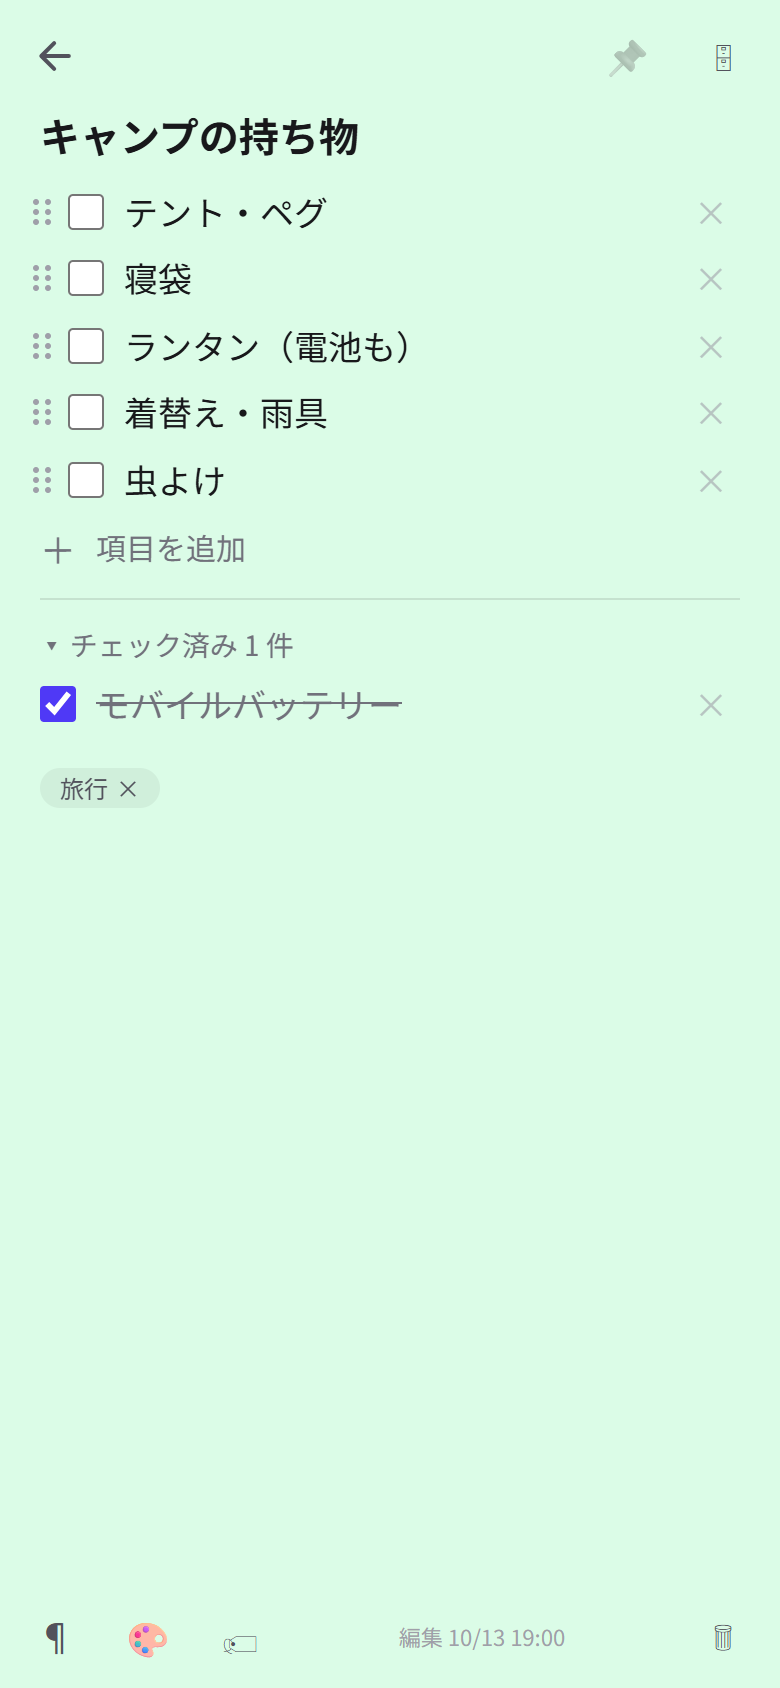
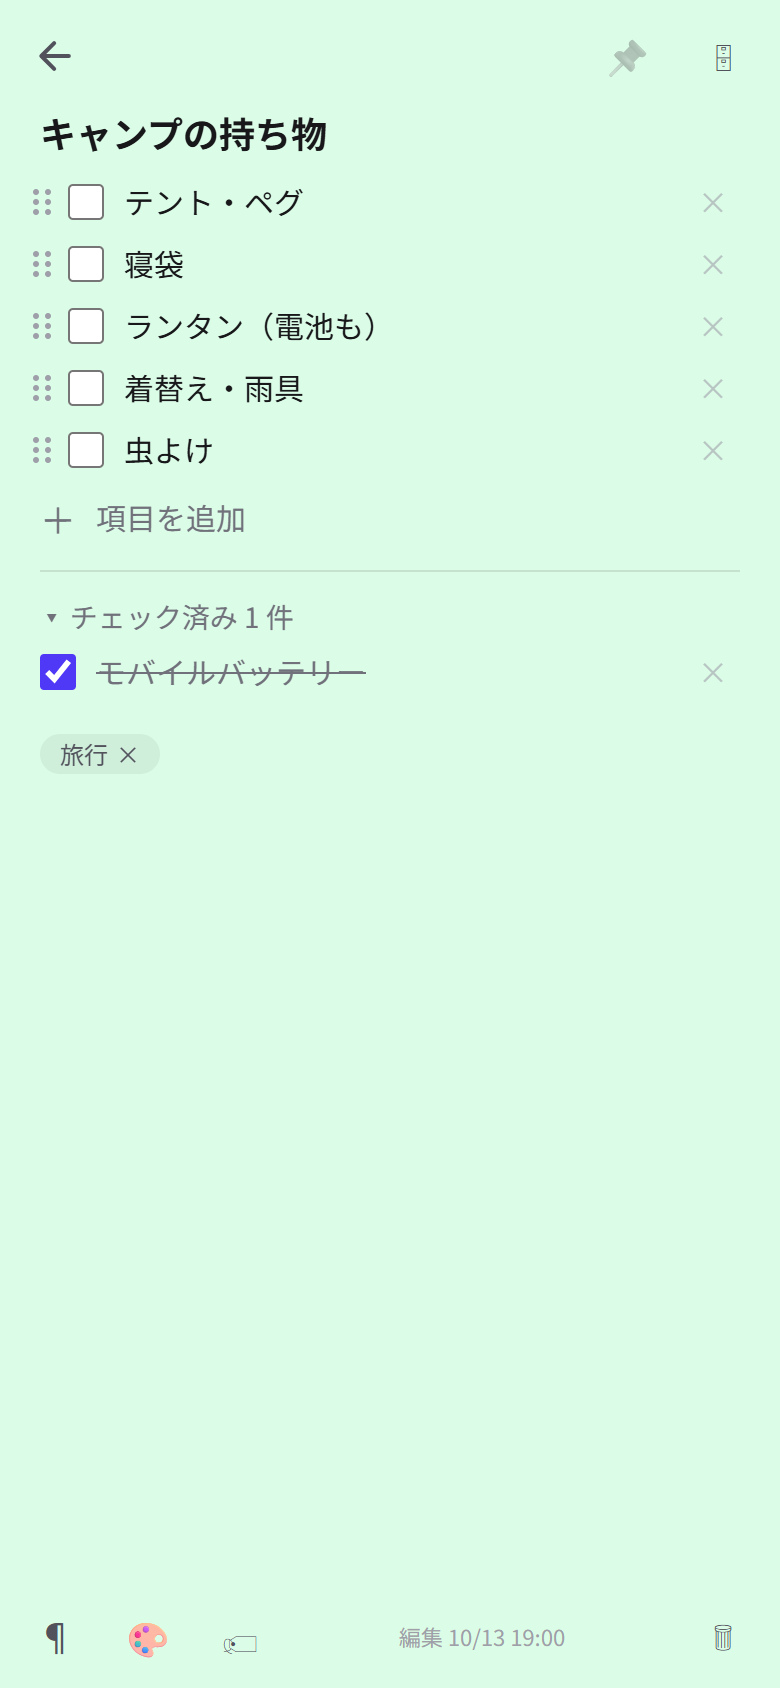
ノート: 文字の大きさを設定で選べるように・ダークの色つきノートでタイトルが透けて読めないのを直す
- 設定の「表示」に「ノートの文字」小（14px）／中（15px・既定）／大（17px）。端末ごと（web/noteFont.ts）
- チェックとつまみは文字の大きさに合わせて1行目の真ん中に
- ダークの色は半透明なので、開いたノートは不透明な地の上に色を重ねる（下の一覧が透けてタイトルが読めなかった）

diff --git a/src/web/pages/NotesPage.tsx b/src/web/pages/NotesPage.tsx
@@ -9,6 +9,7 @@ import type { Note, NoteItem } from '../../shared/types.ts';
 import { api, useNoteLabels, useNotes } from '../api.ts';
 import { PageHeader } from '../components/Layout.tsx';
 import { useKeyboardViewport, useMediaQuery } from '../media.ts';
+import { noteFontPx, useNoteFont } from '../noteFont.ts';
 import { useOffline } from '../offline.ts';
 import { enqueue, useOutbox, withPendingChecks } from '../outbox.ts';
 import { useLocalState } from '../storage.ts';
@@ -259,10 +260,11 @@ function NoteCard({ note: n, onOpen }: { note: Note; onOpen: () => void }) {
   );
 }
 
-/** チェックリストの項目の見た目。項目は折り返すので、チェックと × は1行目の高さに合わせる */
-const ITEM = 'min-w-0 flex-1 bg-transparent py-1 text-[17px] leading-snug outline-none';
-const CHECK = 'mt-[7px] size-[18px] shrink-0 accent-indigo-600';
-const REMOVE = 'shrink-0 px-1.5 py-1 text-[17px] leading-snug text-zinc-400 opacity-60 group-hover:opacity-100';
+/** チェックリストの項目の見た目。項目は折り返すので、チェックと × は1行目の高さに合わせる。
+ * 文字の大きさは開いたノートの CSS 変数 --note-fs（設定の 小・中・大＝noteFont.ts） */
+const ITEM = 'min-w-0 flex-1 bg-transparent py-1 text-[length:var(--note-fs)] leading-snug outline-none';
+const CHECK = 'mt-[calc(var(--note-fs)*0.6875-5px)] size-[18px] shrink-0 accent-indigo-600';
+const REMOVE = 'shrink-0 px-1.5 py-1 text-[length:var(--note-fs)] leading-snug text-zinc-400 opacity-60 group-hover:opacity-100';
 
 /** 並べ替えで、指が上下の端からこの距離に入ったらノートを送る */
 const EDGE = 48;
@@ -337,6 +339,8 @@ function NoteEditor({
   const scrollRef = useRef<HTMLDivElement>(null);
   const bodyRef = useRef<HTMLTextAreaElement>(null);
   const keyboard = useKeyboardViewport();
+  const [font] = useNoteFont();
+  const fs = noteFontPx(font);
   // つながっていないときは読むだけ（端末に残しておいた中身を見せている・design 7-9）。チェックだけは溜めておける
   const ro = useOffline() !== null;
   const checkOffline = (i: number, done: boolean) => {
@@ -600,13 +604,18 @@ function NoteEditor({
       style={keyboard ? { top: keyboard.top, height: keyboard.height, bottom: 'auto' } : undefined}
       onClick={close}
     >
-      {/* スマホは1枚の紙（枠を付けず、色はノートの色）・広い画面は真ん中の大きめのカード */}
+      {/* スマホは1枚の紙（枠を付けず、色はノートの色）・広い画面は真ん中の大きめのカード。
+          ダークの色は半透明なので、不透明な地の上に重ねる（下の一覧が透けてタイトルが読めなくなる） */}
+      <div
+        className="flex h-full w-full flex-col overflow-hidden bg-white md:h-auto md:max-h-[86vh] md:max-w-2xl md:rounded-2xl md:shadow-2xl dark:bg-zinc-900"
+        style={{ '--note-fs': `${fs.body}px`, '--note-title': `${fs.title}px` } as React.CSSProperties}
+        onClick={(e) => e.stopPropagation()}
+      >
       <div
         className={cx(
-          'flex h-full w-full flex-col overflow-hidden md:h-auto md:max-h-[86vh] md:max-w-2xl md:rounded-2xl md:border md:shadow-2xl',
-          d.color ? BG[d.color] : 'bg-white md:border-zinc-200 dark:bg-zinc-900 dark:md:border-zinc-800',
+          'flex min-h-0 flex-1 flex-col md:rounded-2xl md:border',
+          d.color ? BG[d.color] : 'md:border-zinc-200 dark:md:border-zinc-800',
         )}
-        onClick={(e) => e.stopPropagation()}
       >
         {/* 上: 戻る（スマホ）・固定・アーカイブ */}
         <div className="flex shrink-0 items-center gap-1 px-1.5 pt-1.5 md:px-3 md:pt-3">
@@ -663,7 +672,7 @@ function NoteEditor({
               else insertAfter(d.items.length - 1);
             }}
             placeholder="タイトル"
-            className="w-full bg-transparent py-1 text-xl leading-snug font-semibold outline-none placeholder:text-zinc-400/80"
+            className="w-full bg-transparent py-1 text-[length:var(--note-title)] leading-snug font-semibold outline-none placeholder:text-zinc-400/80"
           />
 
           {d.kind === 'text' ? (
@@ -675,7 +684,7 @@ function NoteEditor({
               onChange={(e) => set({ body: e.target.value })}
               placeholder="メモ"
               rows={3}
-              className="mt-1 w-full bg-transparent text-[17px] leading-relaxed outline-none placeholder:text-zinc-400/80"
+              className="mt-1 w-full bg-transparent text-[length:var(--note-fs)] leading-relaxed outline-none placeholder:text-zinc-400/80"
             />
           ) : (
             <div className="mt-1 space-y-0.5">
@@ -695,7 +704,7 @@ function NoteEditor({
                       onPointerMove={moveDrag}
                       onPointerUp={endDrag}
                       onPointerCancel={endDrag}
-                      className="-mr-1 shrink-0 cursor-grab touch-none px-0.5 pt-[9px] pb-1 text-zinc-400 active:cursor-grabbing"
+                      className="-mr-1 shrink-0 cursor-grab touch-none px-0.5 pt-[calc(var(--note-fs)*0.6875-3px)] pb-1 text-zinc-400 active:cursor-grabbing"
                       title="押したまま上下で並べ替え"
                       aria-hidden="true"
                     >
@@ -850,6 +859,7 @@ function NoteEditor({
             閉じる
           </button>
         </div>
+      </div>
       </div>
     </div>
   );

diff --git a/src/web/pages/SettingsPage.tsx b/src/web/pages/SettingsPage.tsx
@@ -7,6 +7,7 @@ import { anchorLabel, flatten } from '../../shared/templates.ts';
 import type { Category, Template } from '../../shared/types.ts';
 import { api, useCategories, useCategoryWrite, useSettings, useTemplates, useTemplateWrite, useWrite, type AppSettings } from '../api.ts';
 import { PageHeader } from '../components/Layout.tsx';
+import { NOTE_FONTS, noteFontPx, useNoteFont } from '../noteFont.ts';
 import { setThemePref, useThemePref, type ThemePref } from '../theme.ts';
 import { toast } from '../toast.ts';
 import { CARD, cx } from '../util.ts';
@@ -77,6 +78,7 @@ export function SettingsPage() {
 
       <h2 className={H2}>表示</h2>
       <ThemeSetting />
+      <NoteFontSetting />
     </div>
   );
 }
@@ -366,6 +368,38 @@ function ThemeSetting() {
         ))}
       </div>
       <p className="mt-2.5 text-xs text-zinc-400">この端末だけの設定（スマホと PC で別々に選べる）。</p>
+    </div>
+  );
+}
+
+/** ノートを開いたときの文字の大きさ（design 7-13・端末ごと） */
+function NoteFontSetting() {
+  const [font, setFont] = useNoteFont();
+  const px = noteFontPx(font);
+  return (
+    <div className={cx(CARD, 'mt-3 p-4')}>
+      <div className="flex flex-wrap items-center gap-2">
+        <span className="mr-1 text-sm">ノートの文字</span>
+        {NOTE_FONTS.map(([v, label]) => (
+          <button
+            key={v}
+            type="button"
+            onClick={() => setFont(v)}
+            className={cx(
+              'rounded-md border px-3 py-1.5 text-sm',
+              font === v
+                ? 'border-indigo-500 bg-indigo-50 text-indigo-700 dark:bg-indigo-950 dark:text-indigo-300'
+                : 'border-zinc-300 text-zinc-600 dark:border-zinc-700 dark:text-zinc-300',
+            )}
+          >
+            {label}
+          </button>
+        ))}
+      </div>
+      <p className="mt-3 leading-relaxed" style={{ fontSize: px.body }}>
+        思いついたことを、そのまま書いておく。
+      </p>
+      <p className="mt-1.5 text-xs text-zinc-400">開いたノートの本文と項目の大きさ（タイトルは少し大きく）。この端末だけの設定。</p>
     </div>
   );
 }

diff --git a/src/web/noteFont.ts b/src/web/noteFont.ts
@@ -1,0 +1,18 @@
+// ノートを開いたときの文字の大きさ（design 7-13）。端末ごとに設定画面で選ぶ（スマホと PC で別々）。
+
+import { useLocalState } from './storage.ts';
+
+export type NoteFont = 's' | 'm' | 'l';
+
+/** 本文（とチェックリストの項目）とタイトルの大きさ（px） */
+export const NOTE_FONTS: [NoteFont, string, { body: number; title: number }][] = [
+  ['s', '小', { body: 14, title: 17 }],
+  ['m', '中', { body: 15, title: 18 }],
+  ['l', '大', { body: 17, title: 20 }],
+];
+
+export const useNoteFont = () => useLocalState<NoteFont>('notes.fontSize', 'm');
+
+export function noteFontPx(f: NoteFont): { body: number; title: number } {
+  return (NOTE_FONTS.find(([k]) => k === f) ?? NOTE_FONTS[1]!)[2];
+}
